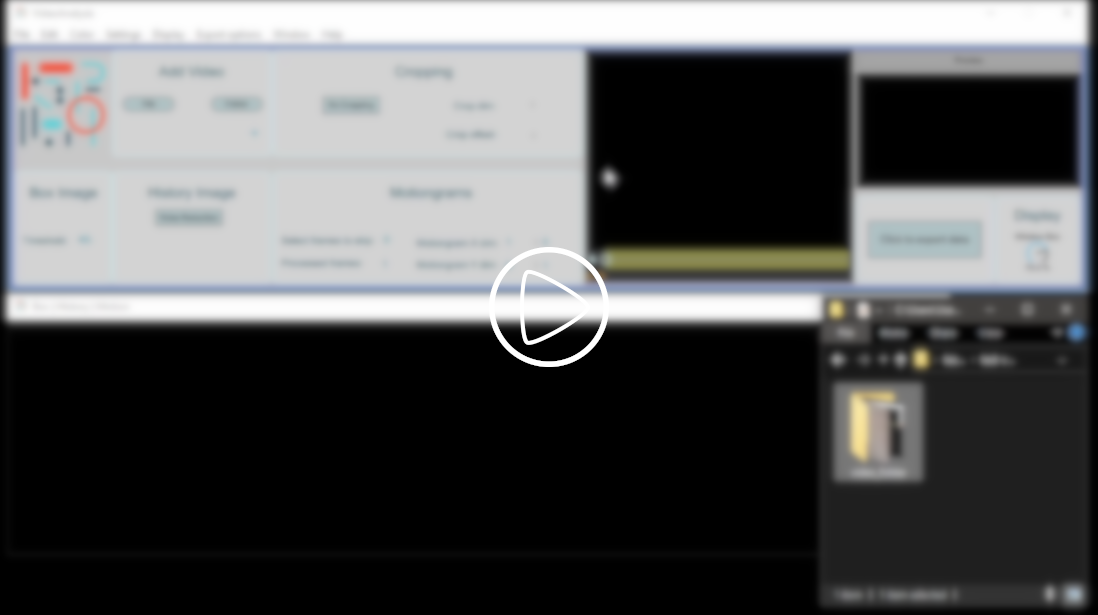
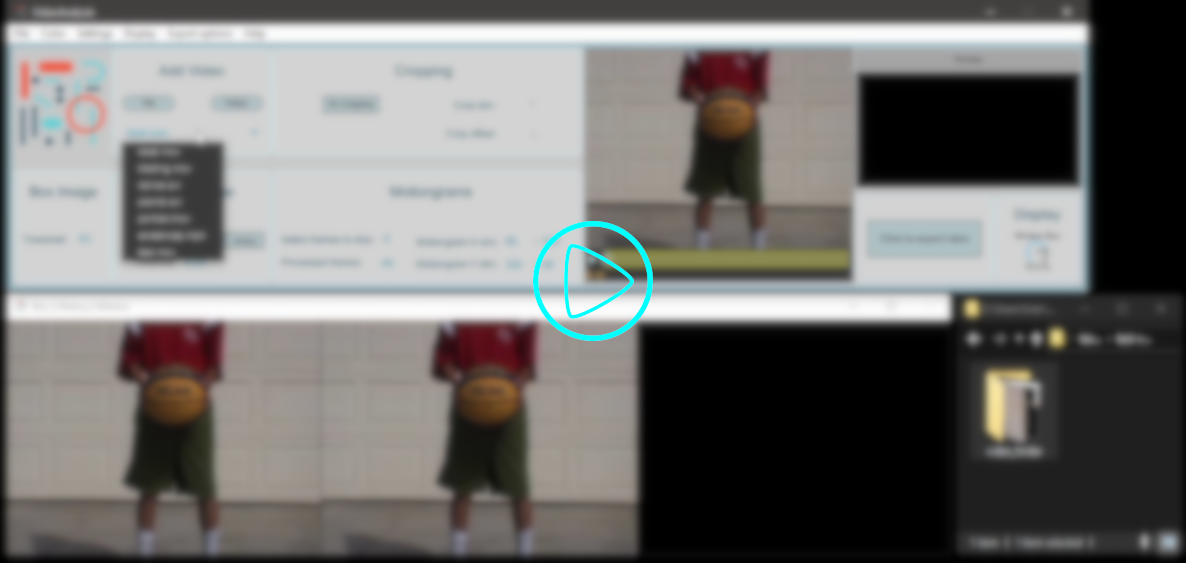
updated documentation for the changed interface
#33

diff --git a/documentation/getStarted.html b/documentation/getStarted.html
@@ -34,8 +34,8 @@
       </figure>
 
       <p>
-        You can also open a video file by clicking on the 'File' button on the
-        'Add Video' panel.
+        You can also open a video file by clicking on the <b>File</b> button on the
+        <b>Add Video</b> panel.
       </p>
 
       <figure>
@@ -48,18 +48,11 @@
       </figure>
 
       <p>
-        Alternatively you can open a video file by selecting <i>File > Open...</i>
+        Alternatively you can open a video file by selecting <i>File > Open file...</i>
         from the menu.
       </p>
 
-      <figure>
-        <img
-          src="img/01_open_file_menu.png"
-        
-          alt="Static Image"
-          data-alt="img/01_open_file_menu.gif"
-        />
-      </figure>
+      <img src="img/01_open_file_menu.png"/>
 
       <h2 class="section-title">Open a folder of video files</h2>
 
@@ -80,8 +73,8 @@
       </figure>
 
       <p>
-        You can also load a folder by clicking on the 'Folder' button on the
-        'Add Video' panel.
+        You can also load a folder by clicking on the <b>Folder</b> button on the
+        <b>Add Video</b> panel.
       </p>
 
       <figure>
@@ -93,16 +86,23 @@
         />
       </figure>
 
+      <p>
+        Alternatively you can open a folder by selecting <i>File > Open folder...</i>
+        from the menu.
+      </p>
+
+      <img src="img/02_open_folder_menu.png"/>
+
       <h2 class="section-title">Source Display</h2>
 
       <img src="img/SourceDisplay.png"/>
 
       <p>
-        Within the Source Display you can find a little preview of the loaded video. 
+        Within the <b>Source Display</b> you can find a little preview of the loaded video. 
         You can toggle playback either by clicking on the Play icon, or by pressing the Space bar.
         Below the Play icon you can find two yellow arrows, which you can use to nudge the playback
-        one frame forward or back. You can also do this by pressing Shift + Left arrow or Shift + 
-        Right arrow on your keyboard. Next to the Play icon you can see the Timeline. This can be used
+        one frame forward or back. You can also do this by pressing <code>Shift + Left</code> arrow or <code>Shift + Right</code> 
+        arrow on your keyboard. Next to the Play icon you can see the <b>Timeline</b>. This can be used
         to quickly skim through the video, and more importantly to select the trimming points of the 
         analysis (see below). 
       </p>
@@ -123,10 +123,10 @@
       <h2 class="section-title">Trimming</h2>
 
       <p>
-        On the Source Display you can set the in- and out-points of the analysis by selecting either
-        edge of the yellow area on the Timeline and dragging it to the desired timepoint. This will
+        On the <b>Source Display</b> you can set the in- and out-points of the analysis by selecting either
+        edge of the yellow area on the <b>Timeline</b> and dragging it to the desired timepoint. This will
         affect the real-time playback as well as the analysis videos and images - you can get an idea by
-        observing the number of <i>Processed frames</i>.
+        observing the number of <b>Processed frames</b>.
       </p>
 
       <figure>
@@ -147,7 +147,7 @@
         You can for example set this to 2, to skip two frames before including 
         a frame in the analysis, then skipping two again. If skipping is set to 1, then
         the analysis will skip every other frame. You can get an idea about how it works 
-        by observing the number of <i>Processed frames</i>. Skipping frames can be a huge
+        by observing the number of <b>Processed frames</b>. Skipping frames can be a huge
         timesaver when working with extremely long videos.
       </p>
 
@@ -158,8 +158,8 @@
       <p>
         To crop the source video here is what you should do:
         <ol>
-          <li>In the Cropping panel activate cropping with the toggle.</li>
-          <li>In the Source display draw a rectangle over the area you wish to keep.</li>
+          <li>In the <b>Cropping</b> panel activate cropping with the toggle.</li>
+          <li>In the <b>Source Display</b> draw a rectangle over the area you wish to keep.</li>
           <li>Optionally you can also finetune the position of this cropping rectangle with the number boxes.</li>
         </ol>
       </p>
@@ -178,11 +178,11 @@
       <img src="img/DisplayWindow.png"/>
 
       <p>
-        The real-time preview of the analysis can be observed in the Display window. It consists of
+        The real-time preview of the analysis can be observed in the <b>Display</b> window. It consists of
         the bounding box video, the history video and the motion video, respectively. You can toggle
         these independently from the <i>Display</i> menu, with the additional option to set the window
-        into floating mode. The Display always resizes automatically when you are changing the cropping
-        dimension. To adjust the scale of the Display window use dial in the lower-right corner of the interface.
+        into floating mode. The <b>Display</b> always resizes automatically when you are changing the cropping
+        dimension. To adjust the scale of the <b>Display</b> window use dial in the lower-right corner of the interface.
       </p>
 
       <img src="img/DisplayScale.png"/>
@@ -212,13 +212,25 @@
       <img src="img/Settings.png"/>
 
       <p>
-        When working with a folders, by default VideoAnalysis keeps all settings local to each video. You can change
+        When working with folders, by default VideoAnalysis keeps all settings local to each video. You can change
         this behavior by selecting <i>Settings > Use same settings for each file</i>. In this case the last settings
         (ie. the ones you had at the moment of changing to this mode) will apply to each video file during the batch 
         export. To go back to using independent settings, select <i>Remember settings for each file</i>. It is also 
         possible to save or load all settings into a .json file. This can make it easy to pick up your work where
         you left it, or to share your settings with other users.
       </p>
+
+      <h2 class="section-title">Report a problem</h2>
+
+      <img src="img/report.png"/>
+
+      <p>
+        Have you experienced errors or any strange behavior from VideoAnalysis? If you take a moment and report it to
+        us, you can greatly contribute to the development of this software. Clicking on <i>Help > Report a problem...</i>
+        opens your default internet browser and takes you straight to the Issues page at our Github repository for VideoAnalysis.
+        Here you can click on the (green) <b>New issue</b> button, and tell us about the problem.
+      </p>
+
 
 
 

diff --git a/documentation/readme.html b/documentation/readme.html
@@ -18,10 +18,7 @@
         features from video files.
       </p>
       <figure>
-        <img
-          src="https://github.com/fourMs/VideoAnalysis/raw/master/documentation/img/ExportButton.png"
-          alt=""
-        />
+        <img src="img/mainInterface.png" alt="" />
         <figcaption>VideoAnalysis</figcaption>
       </figure>
       <h2 id="features">Features</h2>
